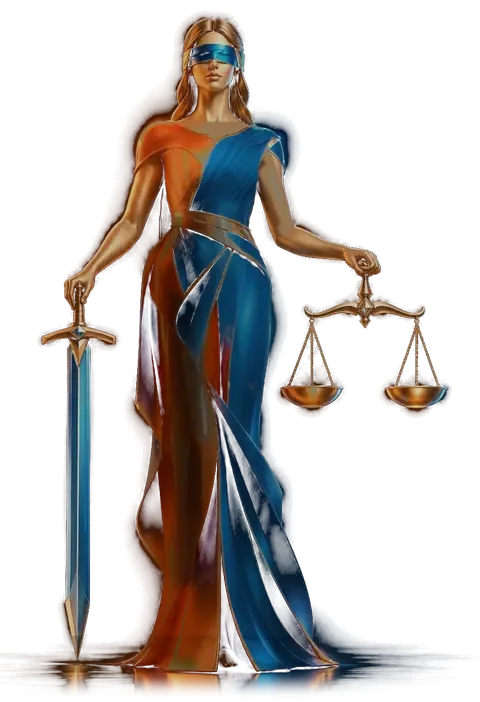
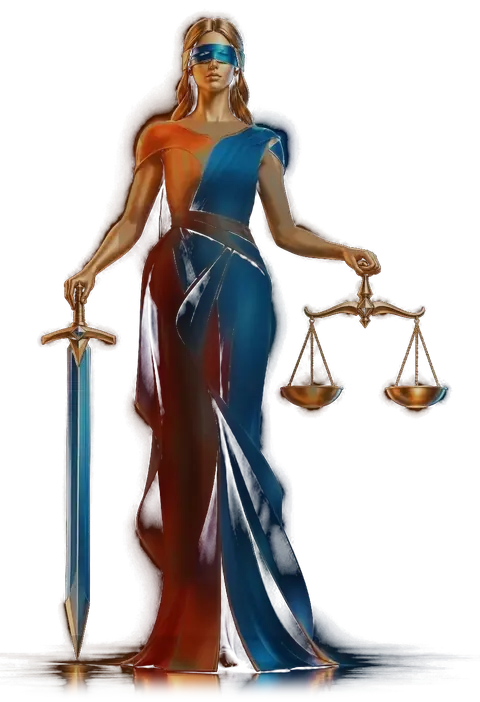
Фемида: освобождает ткань на животе и бедрах

diff --git a/docs/product/media-sources.md b/docs/product/media-sources.md
@@ -42,4 +42,4 @@
 
 # Матовая ткань без изменения силуэта, 24 ноября 2026
 
-Кадры `assets/themis-alive.webp` и `assets/themis-alive-480.webp` получены из варианта текущего `main`. Геометрия фигуры, прозрачный контур, размеры кадров и области анимации в `themis.js` не менялись. Блики платья сжаты, цвет и контраст приглушены, внутри существующего силуэта добавлены мягкие складки ткани. Тёплая часть платья на левой для зрителя ноге переведена в терракотовый оттенок, её центральный блик приглушён. Основной кадр сохранён в WebP с качеством 95, мобильный уменьшен из него и сохранён с качеством 75. Метаданные не записываются.
+Кадры `assets/themis-alive.webp` и `assets/themis-alive-480.webp` получены из варианта текущего `main`. Геометрия фигуры, прозрачный контур, размеры кадров и области анимации в `themis.js` не менялись. Блики платья сжаты, цвет и контраст приглушены, внутри существующего силуэта добавлены мягкие складки ткани. Тёплая часть платья на левой для зрителя ноге переведена в терракотовый оттенок, её центральный блик приглушён. Область живота и бёдер перерисована как более свободная ткань без жёстких швов. Основной кадр сохранён в WebP с качеством 95, мобильный уменьшен из него и сохранён с качеством 75. Метаданные не записываются.
